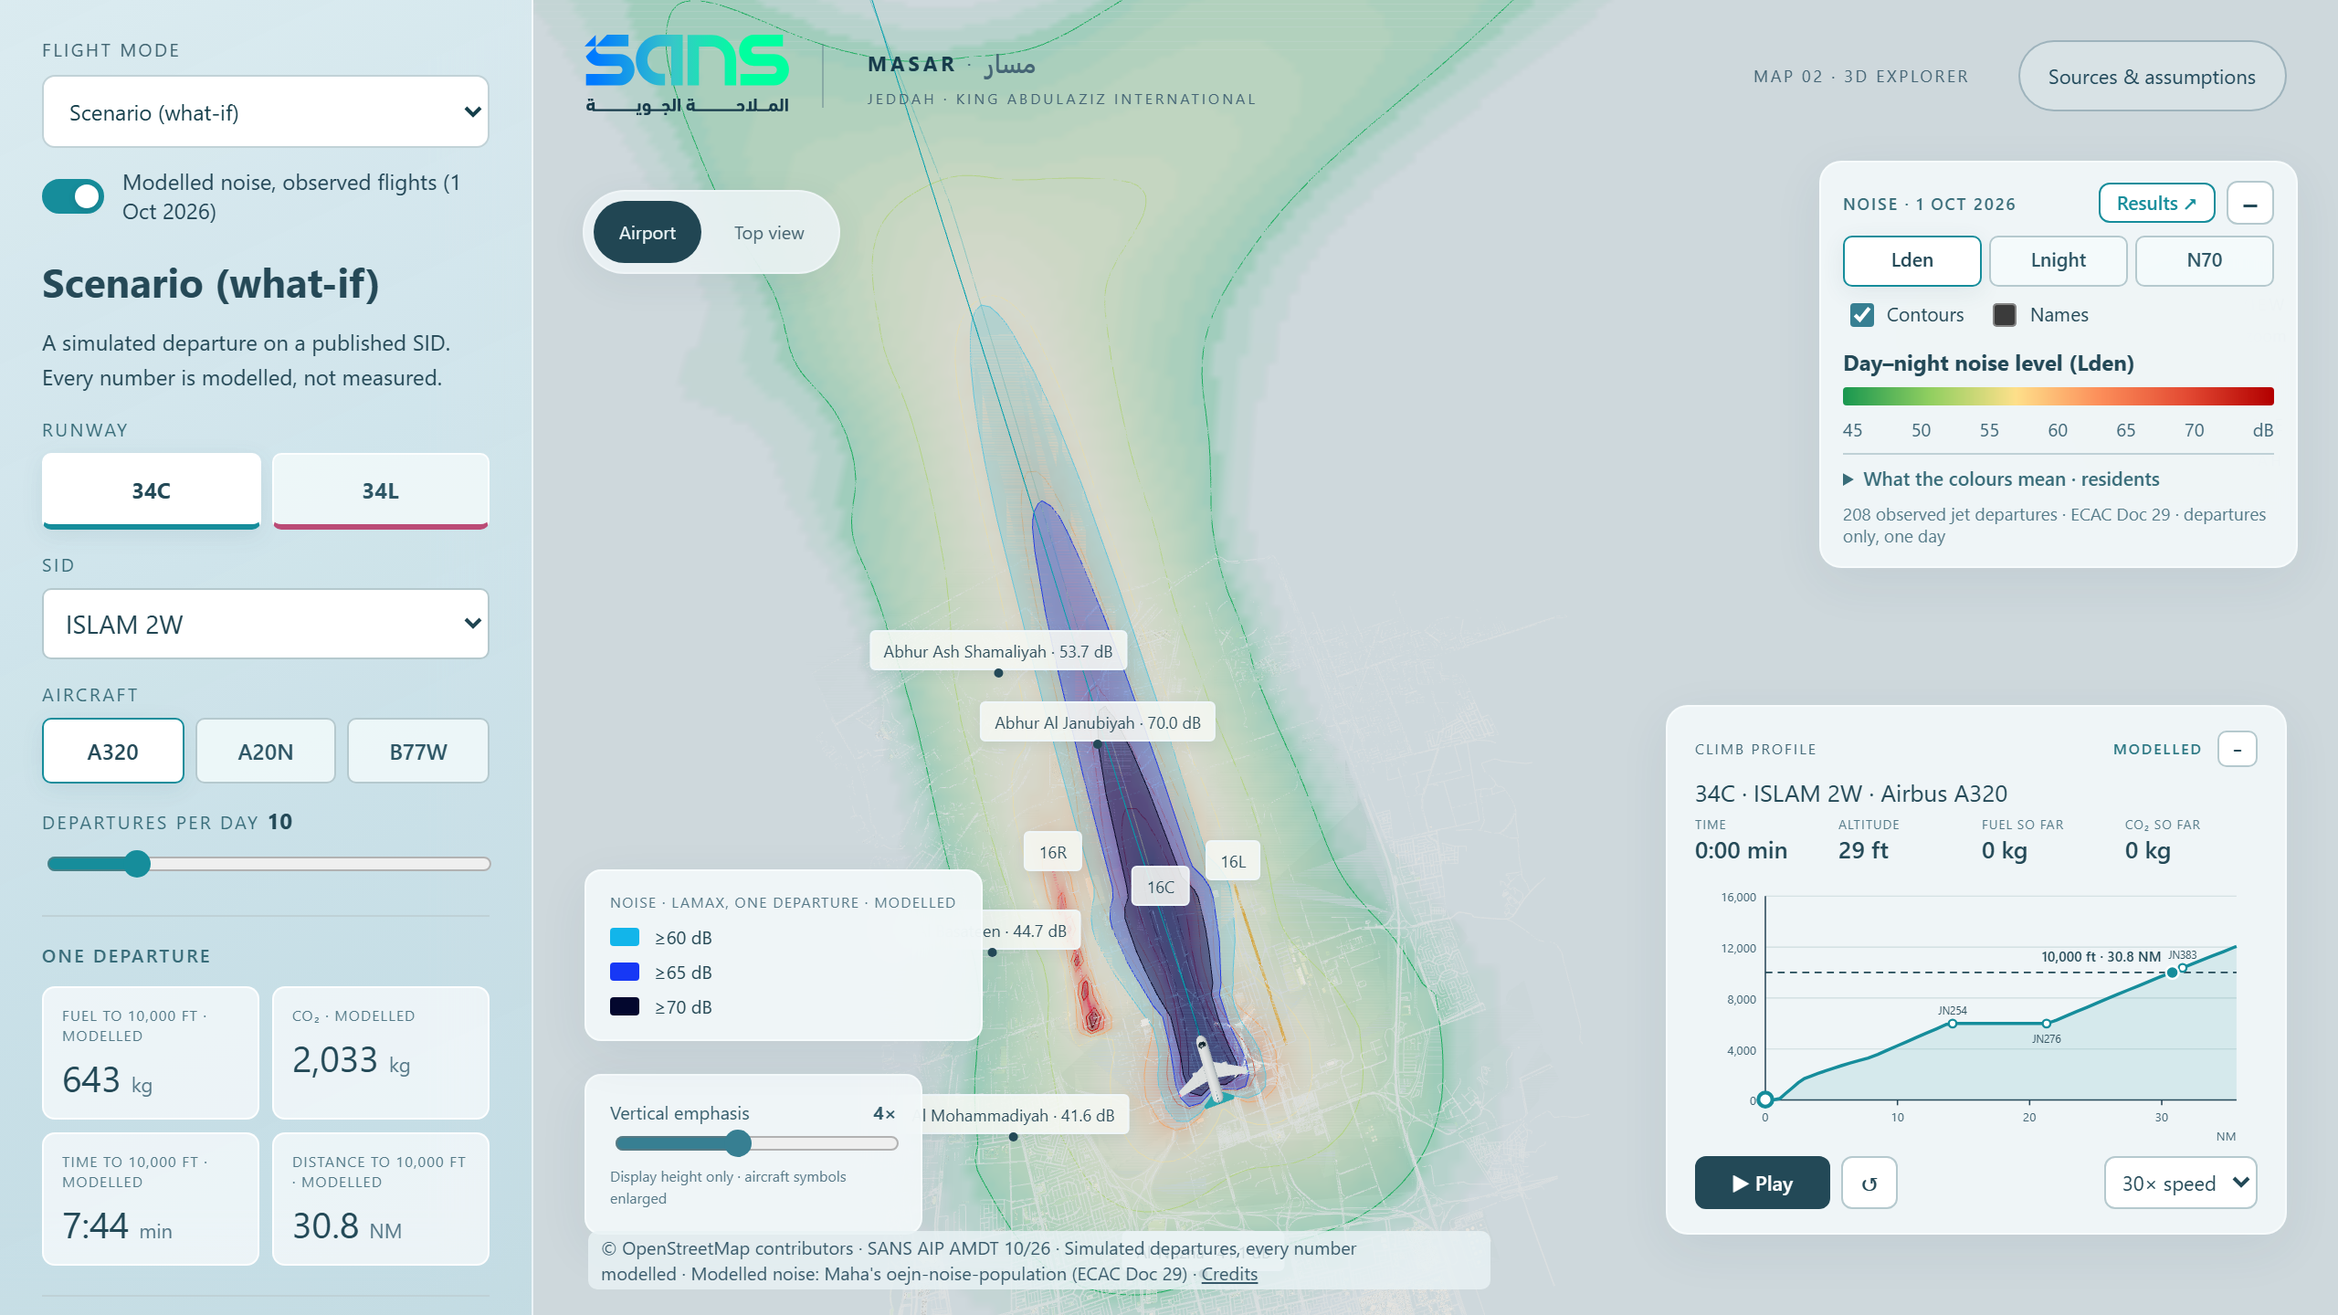
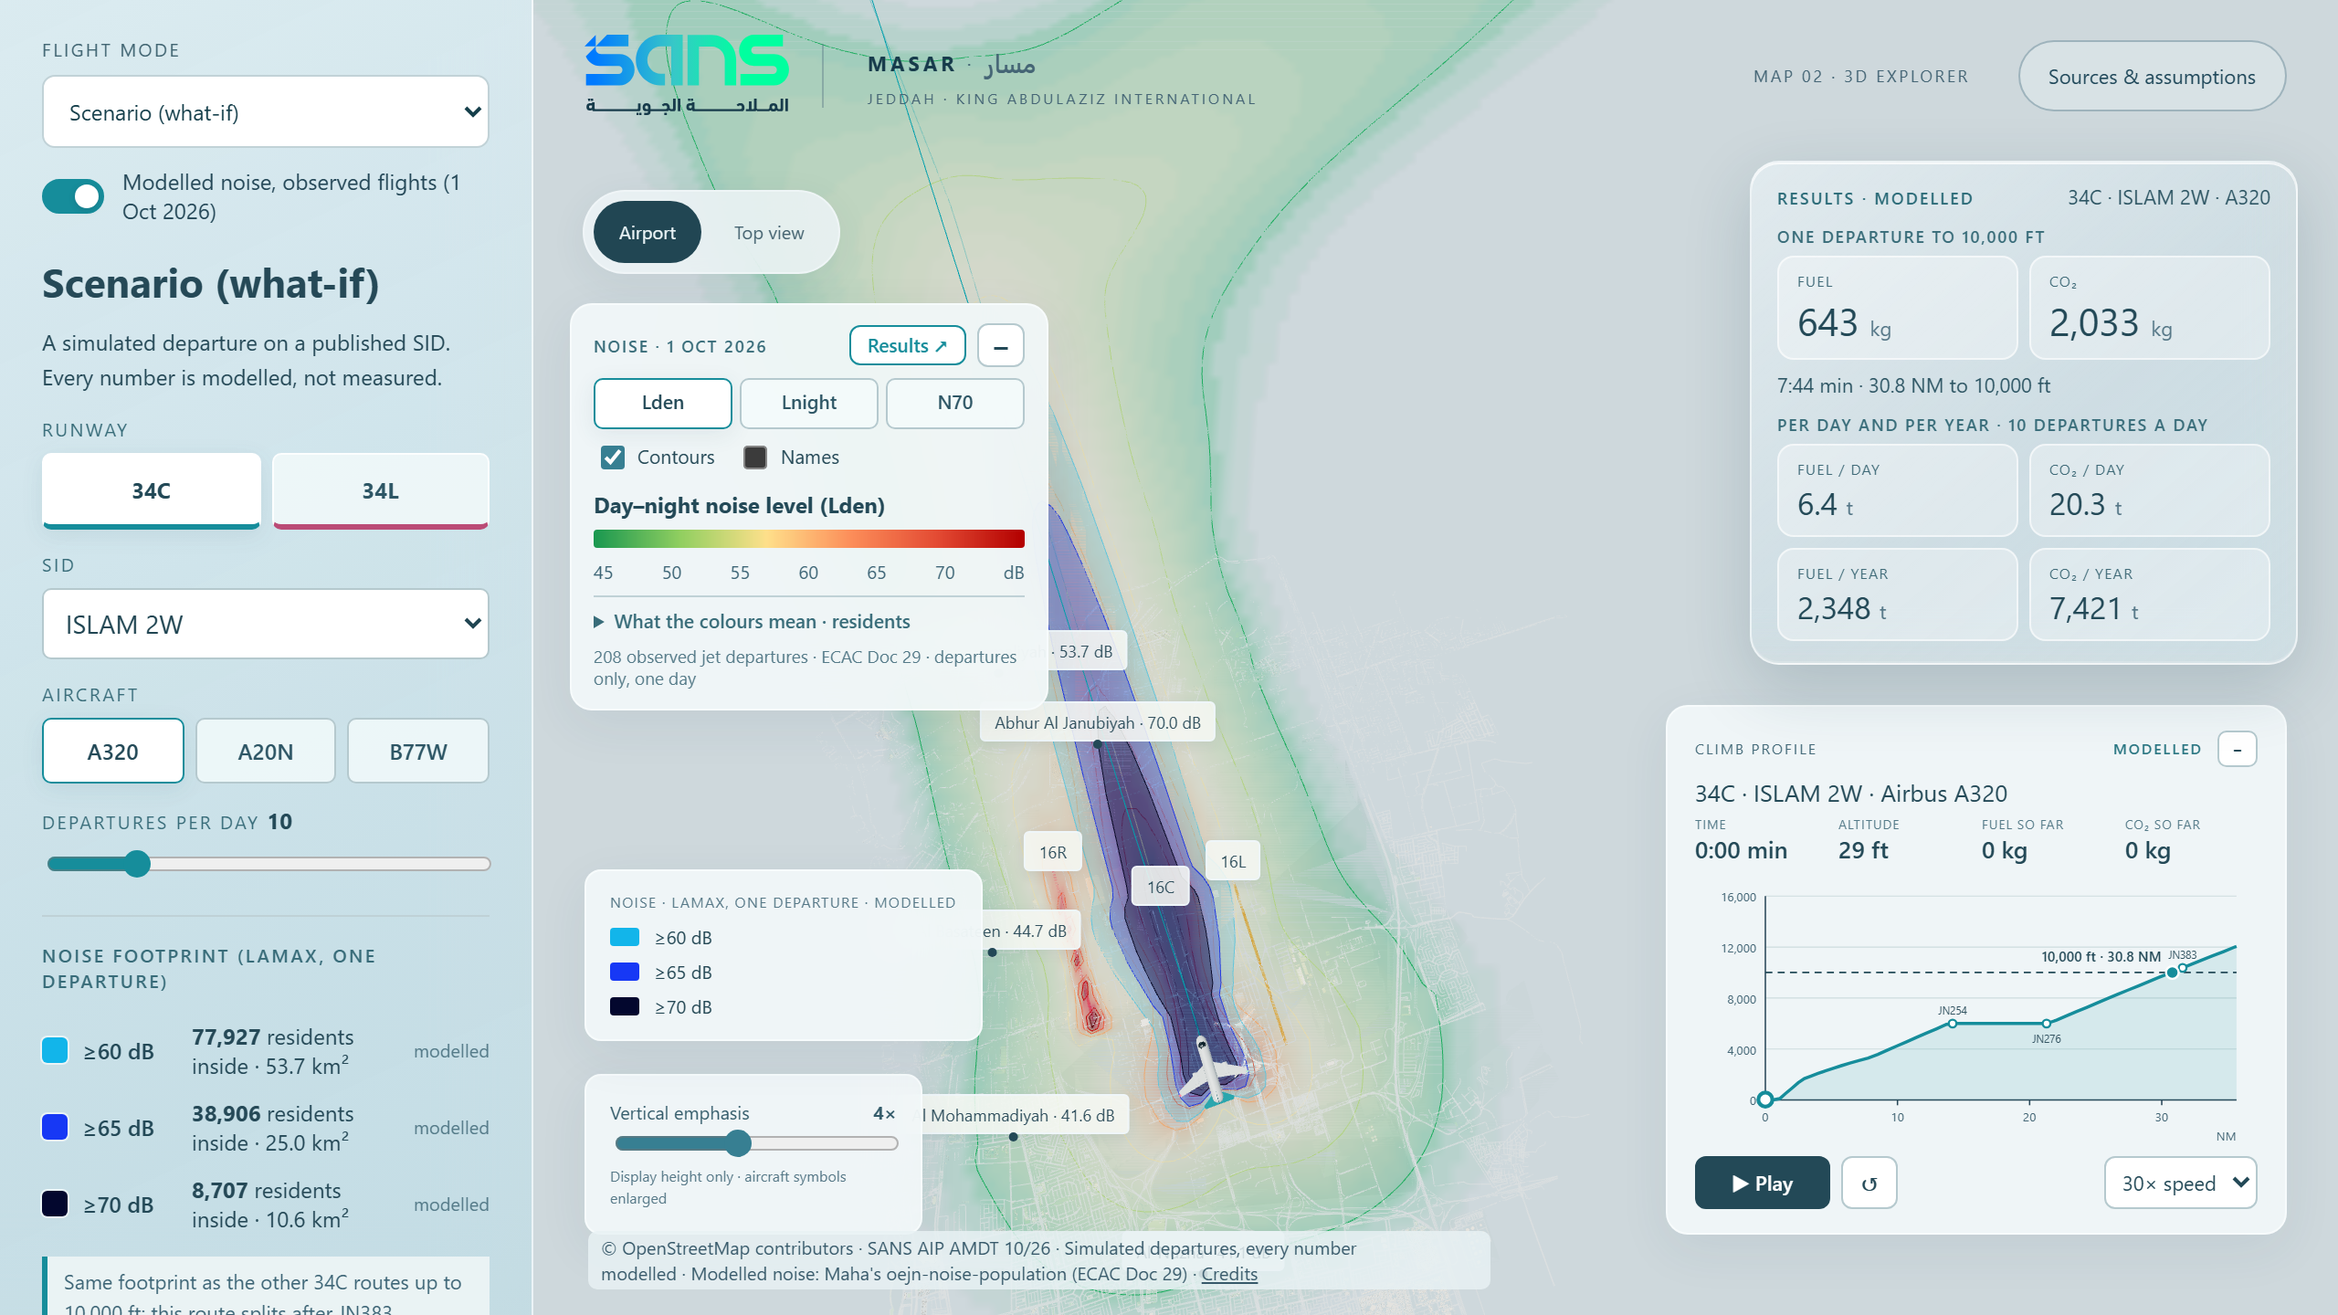
Map 2 Scenario: fuel, CO2 and daily totals in a glass panel on the map
The one-departure fuel and CO2 (with time and distance) and the per day
and per year totals move from the sidebar to a frosted glass panel at
the top right of the map, so they stay in view while the controls
change. In Scenario mode the noise panel moves to the top left; on
phones the panel is one row of four numbers. Scenario screenshots
retaken; browser test checks the panel and the empty sidebar.

Changed region(s): [[0.2188, 0.2188, 0.4688, 0.5625], [0.75, 0.125, 1.0, 0.4688], [0.0, 0.7188, 0.2188, 1.0]]

diff --git a/map-2/index.html b/map-2/index.html
@@ -1,9 +1,9 @@
-<!doctype html><html lang="en"><head><meta charset="utf-8"><meta name="viewport" content="width=device-width,initial-scale=1"><title>Masar · مسار</title><link rel="stylesheet" href="studio.css?v=8"><link rel="stylesheet" href="observed.css?v=2"><link rel="stylesheet" href="scenario.css?v=4"><link rel="stylesheet" href="noise-layer.css?v=2"><script type="importmap">{"imports":{"three":"./vendor/three.module.js"}}</script></head>
+<!doctype html><html lang="en"><head><meta charset="utf-8"><meta name="viewport" content="width=device-width,initial-scale=1"><title>Masar · مسار</title><link rel="stylesheet" href="studio.css?v=8"><link rel="stylesheet" href="observed.css?v=2"><link rel="stylesheet" href="scenario.css?v=5"><link rel="stylesheet" href="noise-layer.css?v=2"><script type="importmap">{"imports":{"three":"./vendor/three.module.js"}}</script></head>
 <body>
 <main><aside class="sidebar"><div class="section-head"><small>01 / CHOOSE A RUNWAY</small><h1>A new perspective<br>on departure.</h1><p>Explore Jeddah’s published departures. Choose a runway, trace a procedure, and follow its journey.</p></div><div id="runways" class="runways" role="tablist" aria-label="Runway"></div><div class="procedure-heading"><small>02 / SELECT A PROCEDURE</small><span id="count">8 SIDs</span></div><div id="procedures" class="procedures"></div><div class="fleet"><div class="procedure-heading"><small>THREE AIRCRAFT · INDEPENDENT PLAYBACK</small></div><div id="fleet"></div><button id="pause-all" class="text-button">Pause all aircraft</button></div><div class="sidebar-note"><span class="dot"></span> Published fixes · illustrative flight motion</div></aside>
 <section id="viewport" aria-label="Interactive 3D airport and departure map"><header><div class="brand"><img class="sans-logo" src="sans-logo-light.svg" alt="SANS — Saudi Air Navigation Services"><div><b>MASAR <span>· <span class="brand-ar" lang="ar" dir="rtl">مسار</span></span></b><small>JEDDAH · KING ABDULAZIZ INTERNATIONAL</small></div></div><div class="header-right"><span class="pill">MAP 02 · 3D EXPLORER</span><button id="sources">Sources & assumptions</button></div></header><div id="canvas-host"></div><div id="labels"></div><div class="view-controls"><button id="airport" class="active">Airport</button><button id="route-view">Full route</button><button id="follow">Follow aircraft</button><button id="top-view">Top view</button><button id="focus" title="Close orbit with presentation captions">◉ Focus mode</button></div><div class="focus-tools"><label>ORBIT <select id="focus-subject" aria-label="Focus orbit subject"><option value="aircraft">Aircraft</option><option value="airport">Airport</option></select></label><button id="edit-caption">Edit caption</button><button id="exit-focus">Exit focus ↗ <kbd>Esc</kbd></button></div><div class="focus-caption"><small id="focus-eyebrow">JEDDAH / DEPARTURE STUDY</small><h2 id="focus-title">The next horizon.</h2><p id="focus-copy">A closer look at the journey.</p><span id="focus-progress"></span></div><div class="map-coordinate">21°40′ N &nbsp; 039°09′ E <span>OEJN · JEDDAH</span></div><div class="view-guide"><span id="camera-mode">AIRPORT VIEW</span><small>Drag to orbit · right-drag to pan · scroll to zoom</small></div><div class="scene-title"><small id="runway-caption">OEJN / THREE RUNWAYS</small><h2 id="route-caption">Ready for departure.</h2><p id="route-description">Three aircraft at their runway thresholds.<br>Select a procedure to begin.</p></div><div class="legend"><span><i style="background:#168d9b"></i>34C</span><span><i style="background:#bb4b76"></i>34L</span><span><i style="background:#aa7519"></i>34R</span></div><div id="loading">Preparing airport geometry…</div><div class="altitude-control"><label for="height">Vertical emphasis <b id="height-label">4×</b></label><input id="height" type="range" min="1" max="8" step="1" value="4"><small>Display height only · aircraft symbols enlarged</small></div><div class="flight-card"><div class="card-heading"><span id="flight-id">AIRCRAFT 34C</span><b id="phase">PARKED</b></div><div class="card-metrics"><div><small>DEMO ALTITUDE</small><strong id="altitude">0 <em>ft</em></strong></div><div><small>NEXT POINT</small><strong id="next-point">—</strong></div></div><svg id="profile" viewBox="0 0 300 70" aria-label="Illustrative altitude profile"></svg><div class="card-foot"><span id="fix-progress">Select a departure</span><span id="loop-count">Loop 0</span></div></div><div class="transport"><button id="play" class="primary" aria-label="Play or pause selected aircraft">▶ Play</button><button id="restart" aria-label="Restart selected aircraft">↺</button><div class="timeline"><input id="scrub" type="range" min="0" max="1000" value="0" aria-label="Flight progress"><div><span id="elapsed">00:00</span><span id="duration">Select a procedure</span></div></div><select id="speed" aria-label="Animation speed"><option value="0.5">0.5× speed</option><option value="1" selected>1× speed</option><option value="2">2× speed</option><option value="4">4× speed</option></select><label class="loop-toggle"><input id="loop" type="checkbox" checked> Loop</label></div><div class="attribution"><span id="attribution-text">© OpenStreetMap contributors · SANS AIP AMDT 10/26 · Concept playback, not recorded flights</span><span class="attribution-noise"> · Modelled noise: Maha's oejn-noise-population (ECAC Doc 29)</span><span class="attribution-credits"> · <a href="https://github.com/M-AlGhazali/Research-and-Innovation-department-SANS-project/blob/main/CREDITS.md" target="_blank" rel="noopener">Credits</a></span></div><div id="tooltip"></div></section></main>
 <dialog id="caption-dialog"><button id="close-caption" class="close" aria-label="Close caption editor">×</button><small>PRESENTATION CAPTION</small><h2>Tell the departure story.</h2><p>The procedure name updates automatically. Add your own headline and supporting words, or leave these blank to use the live flight captions.</p><label class="caption-field">Headline<input id="caption-title-input" maxlength="72" placeholder="Use procedure name"></label><label class="caption-field">Supporting words<textarea id="caption-copy-input" maxlength="180" rows="3" placeholder="Use live departure description"></textarea></label><button id="save-caption">Apply caption</button><button id="reset-caption">Use live captions</button></dialog><dialog id="source-dialog"><button id="close-sources" class="close" aria-label="Close sources">×</button><small>DATA & INTERPRETATION</small><h2>What you are looking at</h2><p>The ground features come from Map 1's GeoPackage. Runway thresholds and width references come from SANS AIP AD 2.12. All 24 SID sequences and 50 fix coordinates were transcribed from the six retained AIP tabulation pages dated 17 September 2026.</p><h3>Published vs illustrated</h3><p>Fix positions, leg order and displayed restrictions are published data. The runway roll point, take-off position, climb between fixes, animation speed and aircraft are illustrative. Straight connectors visit the fixes but do not reconstruct CF/TF path behaviour, fly-over turns, ATC vectors or aircraft dynamics.</p><p>Ground is flat. Buildings use actual footprints with illustrative 12 m / 20 m heights; no surveyed terrain or building elevations are claimed. Vertical emphasis changes the display, not the altitude readout. Flight levels retain their original labels; nominal hundreds of feet are used for the animation without a weather-dependent conversion.</p><h3>Source issues retained</h3><p>MIGDA 3X: JN274 is absent from the 34L coordinate list; its coordinate is cross-referenced from the same-amendment 34C/34R lists. EGREP 2W: the canonical A1 reference places the 13,000 ft upper restriction at JN520. The earlier map transcription has been corrected.</p><h3>Scenario (what-if) mode</h3><p>Scenario mode shows simulated departures on published SIDs. Every number in it is modelled, none is measured. The noise and population model is Maha's <a href="https://github.com/M40aha/oejn-noise-population" target="_blank" rel="noopener">oejn-noise-population</a> (ECAC Doc 29, WorldPop). Fuel comes from OpenAP, with Hala's <a href="https://github.com/Hala-Alali/OEJN_Aircraft_Fuel_Weather" target="_blank" rel="noopener">fuel and weather work</a> as a reference. Recorded-flight mode uses Khalid's A2 pipeline, and the procedures come from the A1 dataset (SANS AIP AMDT 10/26).</p><h3>Modelled noise, observed flights (1 Oct 2026)</h3><p>The optional noise layer is modelled, not measured: it shows Lden, Lnight and N70 calculated from the departures observed on 1 October 2026, using ECAC Doc 29 and Maha's noise model (<a href="https://github.com/M40aha/oejn-noise-population" target="_blank" rel="noopener">github.com/M40aha/oejn-noise-population</a>). Only aggregated grids and statistics are used, with no flight tracks. Aircraft groups with fewer than 3 flights are not shown.</p><div id="source-links"></div><p class="muted">This is an exploration prototype. Local recorded-flight playback uses Wingbits observations when available. SID scores describe geometric agreement, not assigned clearances. Fuel and capacity models are not connected in the demo and recorded modes. Modelled fuel and noise appear only in Scenario mode. The separate noise layer is modelled from the 1 October 2026 departures and is not linked to the playback.</p></dialog>
-<script type="module" src="studio.js?v=14"></script></body></html>
+<script type="module" src="studio.js?v=15"></script></body></html>
 
 
 

diff --git a/map-2/scenario.css b/map-2/scenario.css
@@ -28,3 +28,24 @@
 .scenario-transport{display:flex;gap:6px;align-items:center;margin-top:8px}.scenario-transport button{border:1px solid #b5c9ce;background:#fff;color:#234957;border-radius:6px;padding:6px 10px;font-family:inherit;font-size:11px;font-weight:600;cursor:pointer}.scenario-transport button.primary{background:#234957;border-color:#234957;color:#fff;min-width:74px}.scenario-transport select{margin-left:auto;border:1px solid #b5c9ce;border-radius:6px;padding:5px;background:#fff;color:#234957;font-size:11px}
 .scenario-explain{font-size:11px;line-height:1.5;color:#3d6576;background:#eaf3f4;border-left:3px solid #168d9b;padding:6px 9px;margin:8px 0 0}
 @media(max-height:850px){.scenario-card{padding:13px 15px}.scenario-card .card-foot{display:none}.scenario-card-sub{margin:5px 0 4px}}
+/* results on the map: frosted "water glass" panel, top right */
+.scenario-hud{position:absolute;top:96px;right:22px;width:300px;z-index:5;padding:14px 16px 15px;border-radius:16px;color:#173f4d;background:linear-gradient(140deg,rgba(255,255,255,.46),rgba(255,255,255,.12) 55%,rgba(220,240,246,.22));border:1px solid rgba(255,255,255,.62);box-shadow:0 12px 36px rgba(28,66,84,.18),inset 0 1px 0 rgba(255,255,255,.75),inset 0 -1px 0 rgba(255,255,255,.18);backdrop-filter:blur(14px) saturate(170%);-webkit-backdrop-filter:blur(14px) saturate(170%)}
+.scenario-hud[hidden]{display:none}
+.scenario-hud .hud-head{display:flex;justify-content:space-between;align-items:baseline;gap:8px}
+.scenario-hud .hud-head small{font-size:9px;letter-spacing:.12em;font-weight:600;color:#2b6b78;white-space:nowrap}
+.scenario-hud .hud-head span{font-size:11px;color:#2e5664;text-align:right}
+.scenario-hud h3{font-size:9px;letter-spacing:.1em;text-transform:uppercase;color:#386c79;font-weight:600;margin:11px 0 6px}
+.scenario-hud .scenario-tiles{gap:6px;margin:0}
+.scenario-hud .scenario-tile{background:rgba(255,255,255,.34);border:1px solid rgba(255,255,255,.58);border-radius:9px;padding:7px 10px}
+.scenario-hud .scenario-tile small{font-size:8px;letter-spacing:.08em;color:#3f6a78}
+.scenario-hud .hud-one .scenario-tile strong{font-size:24px;margin-top:2px}
+.scenario-hud .hud-day .scenario-tile strong{font-size:17px;margin-top:2px}
+.scenario-hud .hud-sub{font-size:11px;color:#2e5664;margin:6px 0 0;font-variant-numeric:tabular-nums}
+.scenario-hud .scenario-explain{background:rgba(255,255,255,.34);margin-top:10px;font-size:10.5px}
+.scenario-mode-active .view-guide,.scenario-mode-active .map-coordinate{display:none}
+/* the noise panel moves to the top left in Scenario mode, so the results keep the top right */
+@media(min-width:601px){.scenario-mode-active .noise-panel{left:20px;right:auto;top:166px}}
+@media(max-height:850px){.scenario-hud{top:88px;padding:11px 14px 12px}.scenario-hud h3{margin:8px 0 5px}.scenario-hud .hud-one .scenario-tile strong{font-size:21px}}
+@media(max-width:760px){.scenario-hud{right:12px;top:118px;width:250px}}
+/* phone: one compact row of four numbers under the legend */
+@media(max-width:600px){.scenario-hud{left:12px;right:12px;top:148px;width:auto;padding:7px 8px;display:grid;grid-template-columns:repeat(4,1fr);gap:5px}.scenario-hud .hud-block,.scenario-hud .scenario-tiles{display:contents}.scenario-hud .hud-head,.scenario-hud h3,.scenario-hud .hud-sub,.scenario-hud .scenario-explain,.scenario-hud .hud-day .scenario-tile:nth-child(n+3){display:none}.scenario-hud .scenario-tile{padding:5px 6px}.scenario-hud .hud-one .scenario-tile strong,.scenario-hud .hud-day .scenario-tile strong{font-size:13px}.scenario-hud .scenario-tile em{font-size:9px}.scenario-mode-active .noise-panel{top:212px}}

diff --git a/map-2/studio.js b/map-2/studio.js
@@ -2,7 +2,7 @@ import * as THREE from 'three';
 import {OrbitControls} from './vendor/OrbitControls.js';
 import {buildFlight,sampleFlight,advance,constraintLabel} from './flight-model.mjs';
 import {mountObserved} from './observed-layer.mjs?v=2';
-import {mountScenario} from './scenario-layer.mjs?v=4';
+import {mountScenario} from './scenario-layer.mjs?v=5';
 import {mountNoise,noiseMessage} from './noise-layer.mjs?v=3';
 
 const $=id=>document.getElementById(id),host=$('canvas-host'),viewport=$('viewport');

diff --git a/tests/test_map2_browser.py b/tests/test_map2_browser.py
@@ -90,6 +90,10 @@ def test_opens_in_scenario_mode_with_the_default_selection(browser, server):
     st = page.evaluate("window.map2.scenario.getState()")
     assert (st["runway"], st["sid"], st["aircraft"], st["recordId"]) == ("34C", "ISLAM 2W", "A320", "34C_ISLAM2W_A320")
     assert page.inner_text("#sources") == "Sources & assumptions"
+    # fuel, CO2 and the daily/yearly totals sit in the glass panel on the map, not in the sidebar
+    hud = page.locator(".scenario-hud")
+    assert hud.is_visible() and "643 kg" in hud.inner_text() and "2,033 kg" in hud.inner_text()
+    assert page.locator("section.scenario-panel .scenario-tile").count() == 0
     page.close()
 
 
@@ -119,6 +123,8 @@ def test_playback_ends_on_the_saved_totals_and_resets_on_a_new_selection(browser
     assert pb["altitude"] == "10,000 ft"
     page.locator(".scenario-seg button", has_text="B77W").click()
     page.wait_for_function("window.map2.scenario.getState().recordId==='34C_ISLAM2W_B77W'")
+    # the counters redraw on the next animation frame
+    page.wait_for_function("window.map2.scenario.getState().playback.fuel==='0 kg'", timeout=10000)
     pb = page.evaluate("window.map2.scenario.getState().playback")
     assert pb["t"] == 0 and pb["fuel"] == "0 kg" and pb["playing"] is False
     page.close()
